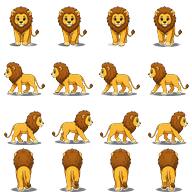
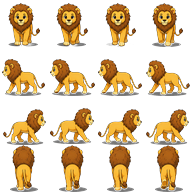
非洲獅改名 + 成年獅走路沿用幼獅縮放倍率(0.159)避免大小不一
- config: 獅子顯示名改「非洲獅」
- 成年獅走路改用幼獅相同 scale 0.159 重切(兩張原圖同為1254/4x4)
- 更新 config 去背/陰影註解
- ASSET_VER +1

Claude-Session: https://claude.ai/code/session_01C8kxTgjCc6TXezEuGUD9Qi

diff --git a/js/config.js b/js/config.js
@@ -36,9 +36,10 @@ export const STRUCTURES = {
 // ★ frame = 單格像素，「以獅子 48 為基準，依體型調整」：
 //   走路整張 = frame×4 寬 × frame×4 高；進食/睡覺 = frame×4 寬 × frame 高。
 //   遊戲會依各動物的 frame 載入並顯示，所以大象天生比企鵝大。
-//   精靈圖用 rembg 去背(會連陰影一起去掉)，所以影子由程式繪製（見 render.js）。
+//   精靈圖用 tools/cut_keep_shadow.py 去背並「保留圖檔自帶的陰影」；
+//   設 bakedShadow:true 的動物，render.js 不再畫程式影子（見 ART_PROMPTS 規則）。
 export const ANIMALS = {
-  lion:     { name: "獅子", body: "#d9a441", accent: "#a87a2a", buy: 200, popularity: 6, speed: 0.7, size: 1.1, frame: 48, bakedShadow: true },
+  lion:     { name: "非洲獅", body: "#d9a441", accent: "#a87a2a", buy: 200, popularity: 6, speed: 0.7, size: 1.1, frame: 48, bakedShadow: true },
   elephant: { name: "大象", body: "#9aa0a6", accent: "#787e84", buy: 350, popularity: 8, speed: 0.5, size: 1.4, frame: 72 },
   penguin:  { name: "企鵝", body: "#2b2f36", accent: "#f1f1f1", buy: 150, popularity: 5, speed: 0.9, size: 0.8, frame: 36 },
   monkey:   { name: "猴子", body: "#8a5a3b", accent: "#caa46a", buy: 180, popularity: 5, speed: 1.1, size: 0.8, frame: 42 },

diff --git a/js/render.js b/js/render.js
@@ -9,7 +9,7 @@ import { TILE_W, TILE_H, GROUND, STRUCTURES, ANIMALS } from "./config.js";
 import { gridToScreen } from "./iso.js";
 
 const HW = TILE_W / 2, HH = TILE_H / 2;
-const ASSET_VER = 11; // 換 assets 圖後 +1，自動破壞快取載新圖
+const ASSET_VER = 12; // 換 assets 圖後 +1，自動破壞快取載新圖
 const toInt = (h) => parseInt(h.slice(1), 16);
 const ROW = { down: 0, left: 1, right: 2, up: 3 }; // 精靈圖方向列順序：前/左/右/後
 